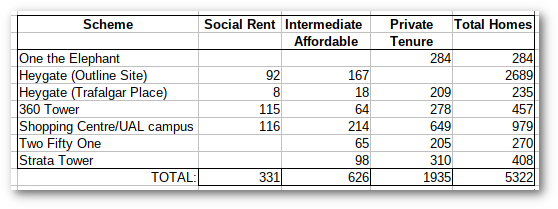
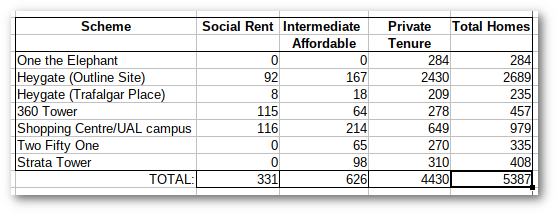
last

Changed region(s): [[0.0, 0.0574, 0.9767, 0.9187]]

diff --git a/ivorytowers.html b/ivorytowers.html
@@ -188,9 +188,9 @@
 			eileenIcon = new LeafIcon({iconUrl: 'http://crappistmartin.github.io/images/eileen.png'}),
 			orangeIcon = new LeafIcon({iconUrl: 'http://crappistmartin.github.io/images/onetheelephant.png'});
        
-	    L.marker([51.492069, -0.100023], {icon: strataIcon}).bindPopup('<strong><i>Strata Tower</strong></i></br>Private__________408</br>Intermediate______98</br>Social rented______0</br><a href="http://35percent.org/strata-tower">More info..</a>').addTo(map);
+	    L.marker([51.492069, -0.100023], {icon: strataIcon}).bindPopup('<strong><i>Strata Tower</strong></i></br>Private__________310</br>Intermediate______98</br>Social rented______0</br><a href="http://35percent.org/strata-tower">More info..</a>').addTo(map);
 
-		L.marker([51.497199, -0.100002], {icon: eileenIcon}).bindPopup('<strong><i>Eileen House</strong></i></br>Private________335</br>Intermediate____65</br>Social rented____0</br><a href="http://35percent.org/eileen-house">More info..</a>').addTo(map);
+		L.marker([51.497199, -0.100002], {icon: eileenIcon}).bindPopup('<strong><i>Eileen House</strong></i></br>Private________270</br>Intermediate____65</br>Social rented____0</br><a href="http://35percent.org/eileen-house">More info..</a>').addTo(map);
 		
 		L.marker([51.492724, -0.103564], {icon: towerIcon}).bindPopup('<strong><i>360 Tower</strong></i></br>Private_________462</br>Intermediate____188</br>Social rented_____0</br><a href="http://www.35percent.org/london-360-tower">More info..</a>').addTo(map);  
 		  
@@ -209,8 +209,8 @@
 	<p>The following [table](/img/eandctenuretable.ods) sets out the tenure mix provision of the seven major development schemes at the Elephant & Castle.</p>
 	<img src="/img/eandctenuretable.png">
 	</br>
-	<p>Of the 5,322 new homes being built at the Elephant a grand total of 331 will be social rent (6%) and 115 of these [bought](http://moderngov.southwark.gov.uk/documents/s71644/Report%20Acquisition%20of%20Affordable%20Housing%20at%20Longville%20Road%20SE11.pdf) from developers for an undisclosed sum.</p>
-	<p>The Council's planning policy for the Elephant and Castle requires a minimum of 17.5% of new homes to be social rent. Had it stuck by its planning policy then these schemes would have provided 931 much need new social rented homes at no cost to the Council.</p>
+	<p>Of the 5,387 new homes being built at the Elephant a grand total of 331 will be social rent (6%) and 115 of these [bought](http://moderngov.southwark.gov.uk/documents/s71644/Report%20Acquisition%20of%20Affordable%20Housing%20at%20Longville%20Road%20SE11.pdf) from developers for an undisclosed sum.</p>
+	<p>The Council's planning policy for the Elephant and Castle requires a minimum of 17.5% of new homes to be social rent. Had it stuck by its planning policy then these schemes would have provided 943 much-needed new social rented homes at no cost to the Council.</p>
 	</div>
 	</div>
 
